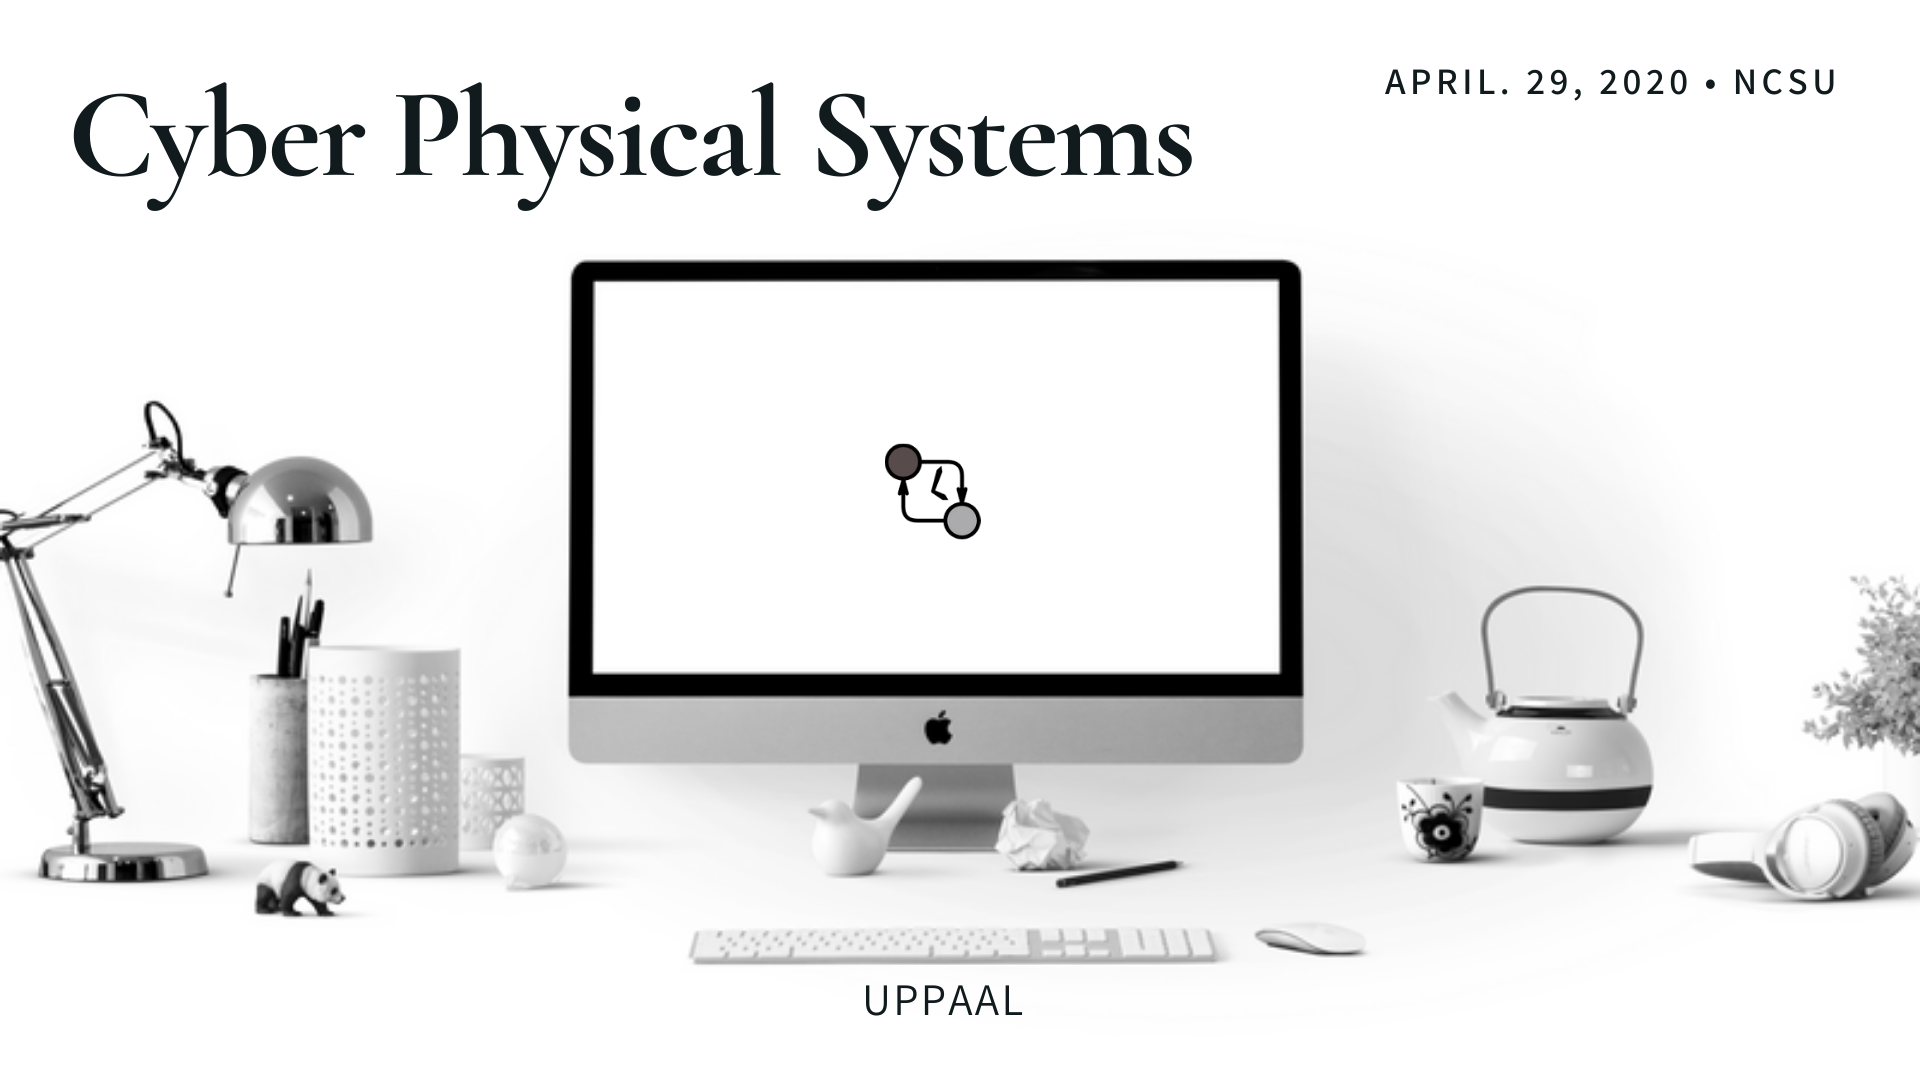
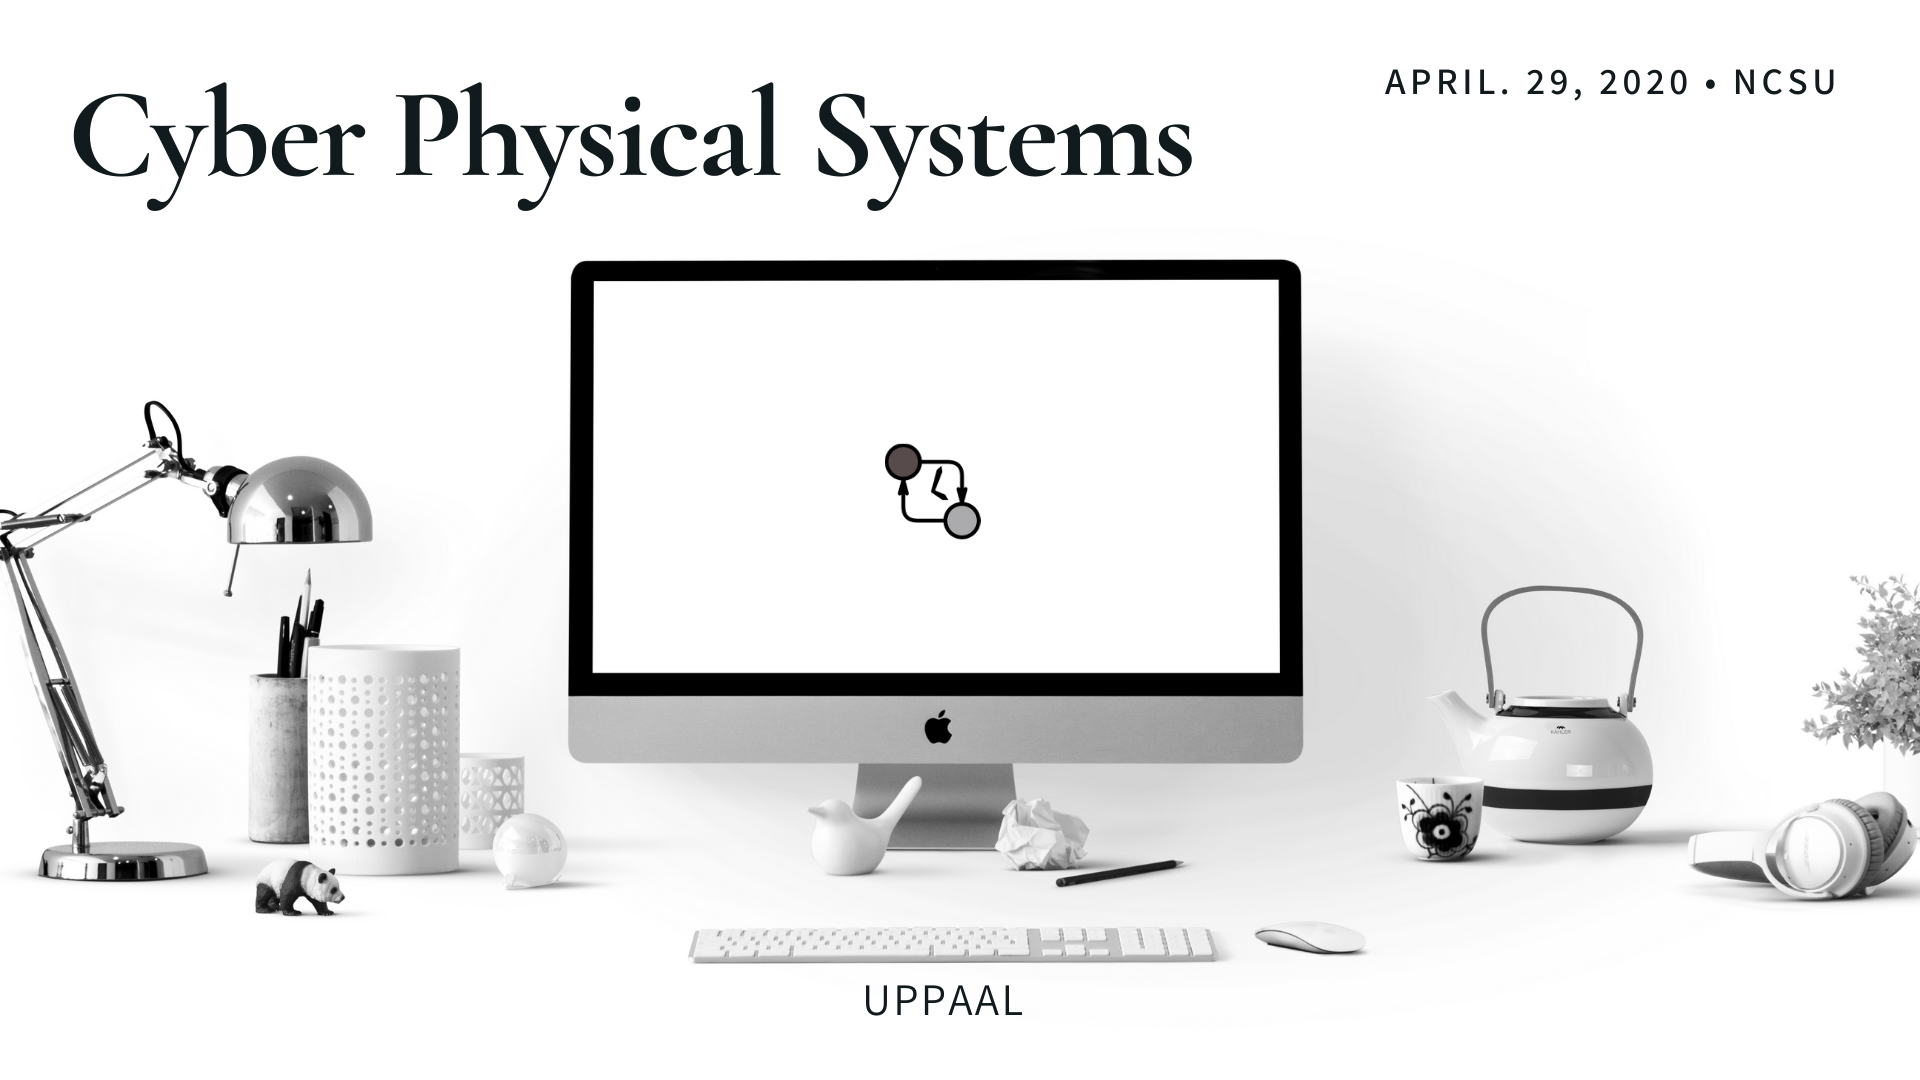
making images clear

diff --git a/CPS/index.md b/CPS/index.md
@@ -5,53 +5,17 @@ description: This page showcases our portfolio for CE-591
 ---
 
 ![](./1.png)
-
----
-
 ![](./2.png)
-
----
-
 ![](./3.png)
-
----
-
 ![](./4.png)
-
----
-
 ![](./5.png)
-
----
-
 ![](./6.png)
-
----
-
 ![](./7.png)
-
----
-
 ![](./8.png)
-
----
-
 ![](./9.png)
-
----
-
 ![](./10.png)
-
----
-
 ![](./11.png)
-
----
-
 ![](./12.png)
-
----
-
 ![](./13.png)
 ![](./14.png)
 ![](./15.png)
